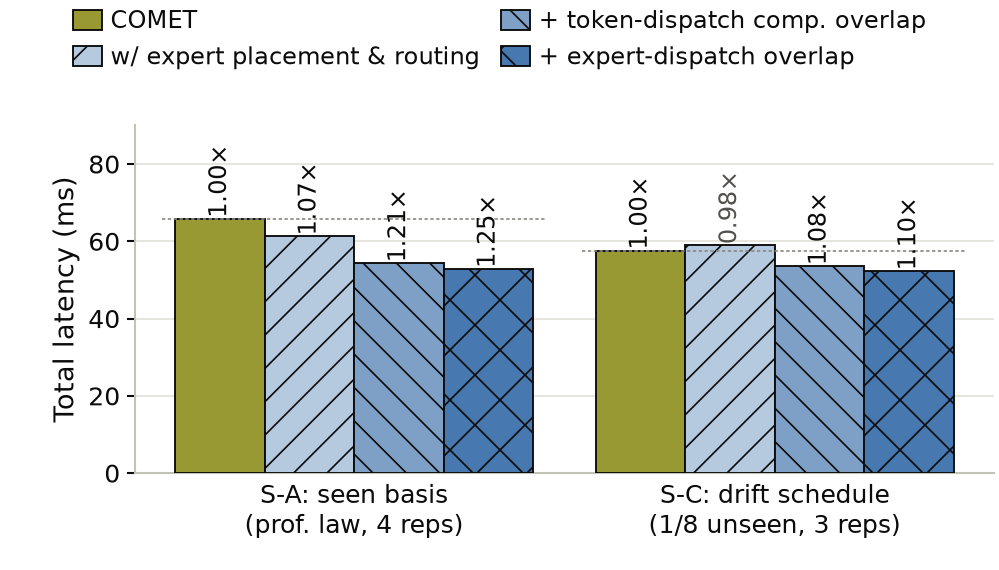
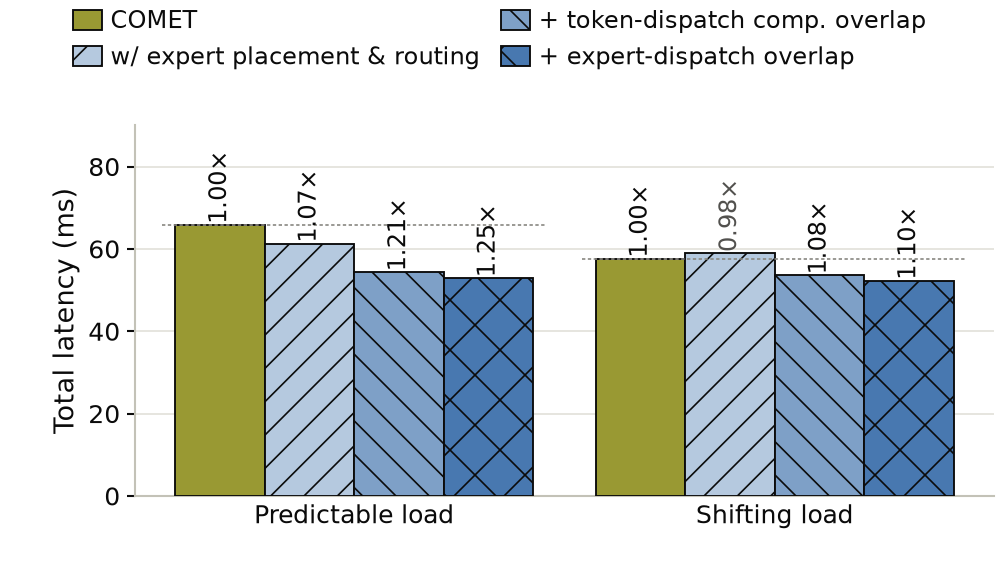
figs/ablation_cycling REV 0.2: group labels 'Predictable load' / 'Shifting load' (postdoc review: scenario codes/topic/reps out of figure text), single-line, bottom margin 0.13

diff --git a/figs/ablation_cycling/make_figure.py b/figs/ablation_cycling/make_figure.py
@@ -26,7 +26,7 @@ HERE = os.path.dirname(os.path.abspath(__file__))
 # ----------------------------------------------------------------------------
 KNOBS = dict(
     FIG_W=3.33, FIG_H=1.90,                       # inches (single column, 1/4 text height incl. caption)
-    MARGINS=dict(left=0.135, right=0.995, bottom=0.17, top=0.78),
+    MARGINS=dict(left=0.135, right=0.995, bottom=0.13, top=0.78),
     VERSIONS={                                    # chain per version: (tidy arm key, legend text)
         "A": [("COMET", "COMET"),
               ("slip", "w/ token-dispatch comp. overlap"),
@@ -41,8 +41,8 @@ KNOBS = dict(
     INCLUDE_SEQ=False,                            # insert the sequential-swap twin before the last bar
     SEQ_TEXT="+ expert dispatch, un-overlapped",
     GROUPS=[                                      # (group label, figure_src panel prefix, topic, statistic)
-        ("S-A: seen basis\n(prof. law, 4 reps)", "A:", "proLaw", "mean over 16 timed iters"),
-        ("S-C: drift schedule\n(1/8 unseen, 3 reps)", "B:", "ALL", "whole-schedule mean, mean over reps"),
+        ("Predictable load", "A:", "proLaw", "mean over 16 timed iters"),
+        ("Shifting load", "B:", "ALL", "whole-schedule mean, mean over reps"),
     ],
     ARM_ROWS={                                    # tidy_arm names in figure_src.csv, per panel prefix
         "COMET": {"A:": "COMET", "B:": "COMET"},

diff --git a/figs/ablation_cycling/SPEC.md b/figs/ablation_cycling/SPEC.md
@@ -1,4 +1,4 @@
-# Ablation figure — specification (REV 0, 2026-09-03)
+# Ablation figure — specification (REV 0.2, 2026-09-04)
 
 One single-column bar chart, two groups (S-A, S-C), two versions from one
 parameterized script (`make_figure.py`, every **[knob]** below lives in its
@@ -13,8 +13,8 @@ weak-scaling rulings (palette, fonts, edge stroke, hatch channel).
   (2.25 in) → figure PDF **1.90 in** tall **[knob: FIG_H]**, leaving
   ~0.35 in for a caption. (Weak-scaling used 1/5 → 1.45 in; this one gets
   the extra height because the vertical speedup labels need it.)
-- Margins **[knob: MARGINS]**: left 0.135, right 0.995, bottom 0.17,
-  top 0.80 of the figure (legend lives in the top 0.20).
+- Margins **[knob: MARGINS]**: left 0.135, right 0.995, bottom 0.13,
+  top 0.78 of the figure (legend lives in the top 0.22).
 - Exported at final physical size; fonts embedded (`pdf.fonttype 42`).
 
 ## 2. What is drawn
@@ -100,11 +100,12 @@ reads as a reported miss rather than a typo.
 
 ## 4. Text
 
-- Group labels **[knob: GROUP_LABELS]** under each group, two lines,
-  6 pt, primary ink:
-  `S-A: seen basis\n(prof. law, 4 reps)` and
-  `S-C: drift schedule\n(1/8 unseen, 3 reps)`.
-  Alternative one-liners `seen basis` / `1-in-8 drift` **[knob]**.
+- Group labels **[knob: GROUPS]** under each group, ONE line, 6 pt,
+  primary ink: `Predictable load` / `Shifting load` (REV 0.2). The label
+  names the one variable the groups vary — whether the served load matches
+  the load the placement was solved on — in the paper's vocabulary.
+  Scenario codes (S-A/S-C), topic names and rep counts are caption
+  material, never figure text; the mechanism argument is body text.
 - Y label `Total latency (ms)` 6.5 pt. No x title.
 - Legend **[knob: LEGEND]** on top, outside the axes, flush to the top
   edge, one row of 4 swatches (fill+hatch+edge), 6 pt, no frame, column
@@ -171,3 +172,9 @@ out-of-basis block; combined with the overlap it leads."
   Everything else as REV 0. Rendered values: S-A 65.84 / 58.61 (1.12×) /
   61.27 (1.07×) / 54.32 (1.21×) / 52.86 (1.25×); S-C 57.61 / 54.77 (1.05×)
   / 59.01 (0.98×) / 53.56 (1.08×) / 52.24 (1.10×).
+- **REV 0.2 (2026-09-04)** — postdoc review: group labels were tier-2/3
+  material (codenames, topic, reps). Replaced by one-line
+  `Predictable load` / `Shifting load` (user pick over "stationary /
+  drifting workload" and "in-/out-of-basis topic"); axes bottom margin
+  0.17 → 0.13 with the second label line gone. Specifics move to the
+  caption (§7), justification to the text. Numbers unchanged.
